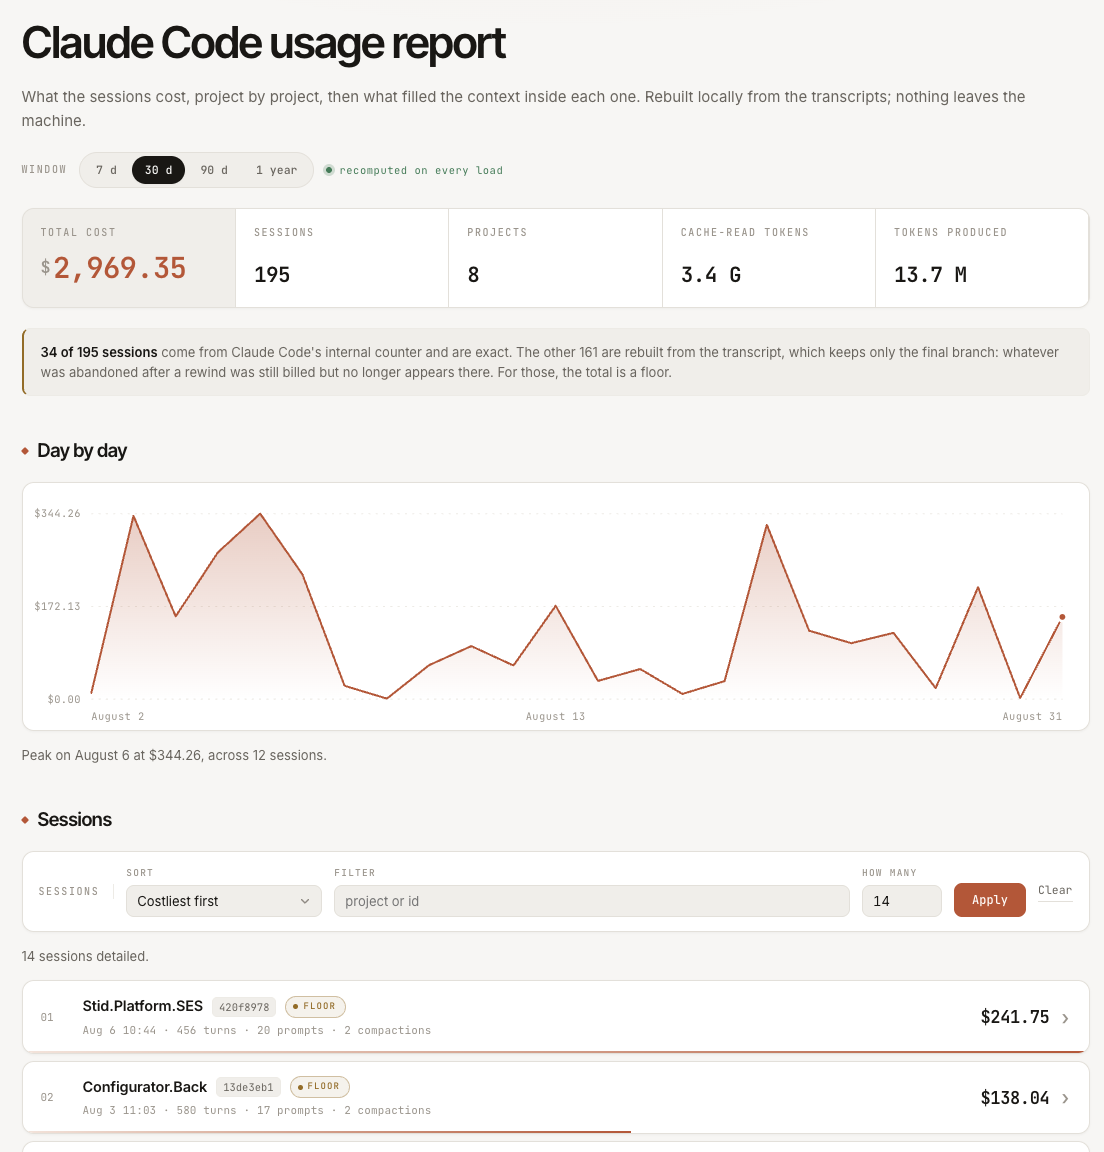
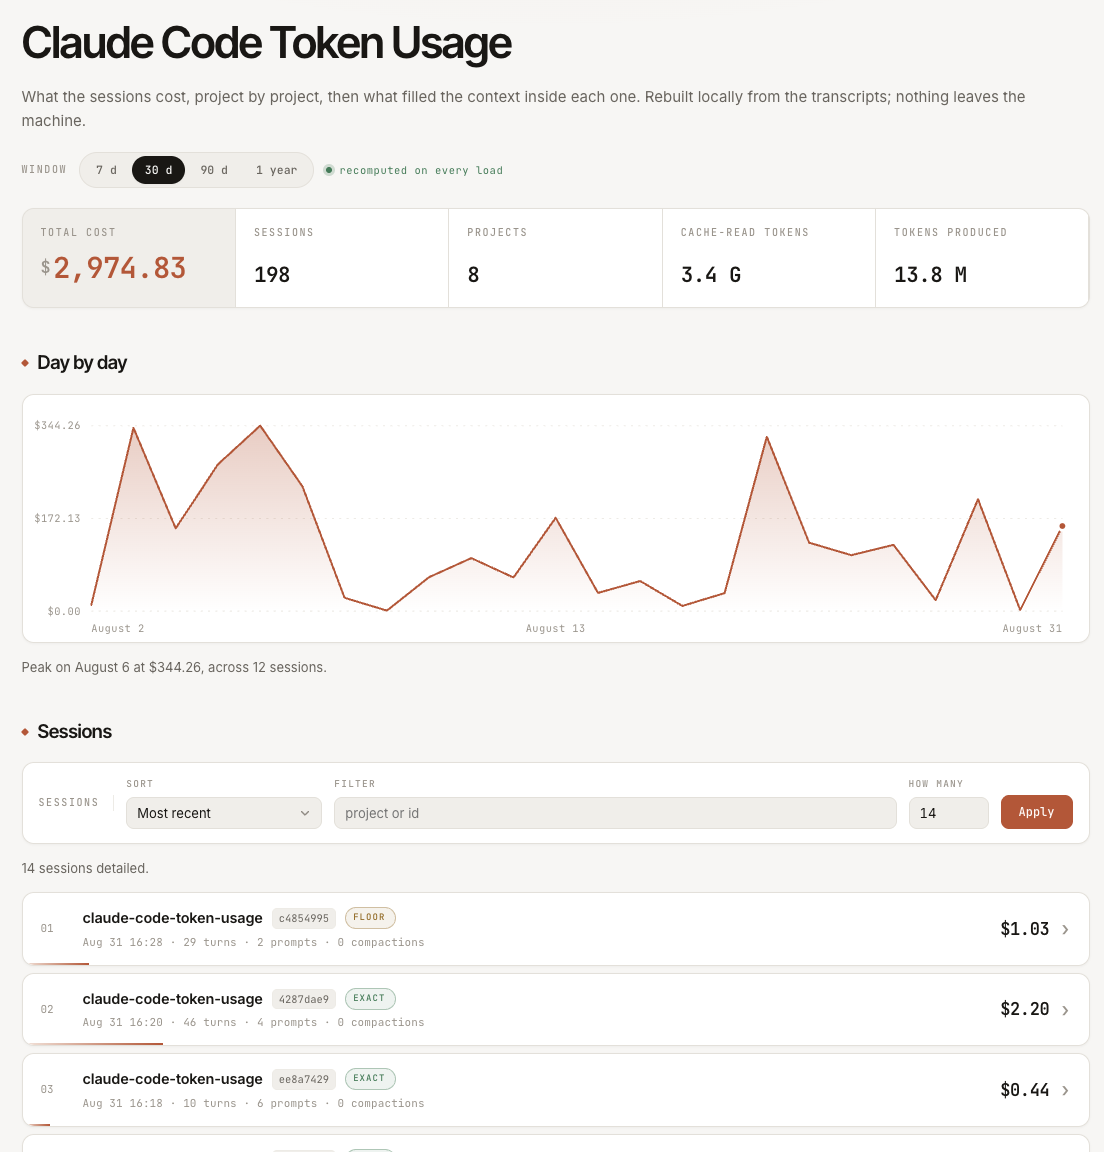
refactor: update HTML structure and improve tooltip functionality

diff --git a/cc-usage-template.html b/cc-usage-template.html
@@ -249,17 +249,6 @@
     vertical-align: .3em;
   }
 
-  .caveat {
-    font-size: 13px;
-    color: var(--muted);
-    background: var(--sunk);
-    border: 1px solid var(--hair);
-    border-left: 2px solid var(--brass);
-    border-radius: var(--r-sm);
-    padding: 13px 17px;
-  }
-  .caveat strong { color: var(--ink); font-weight: 600; }
-
   /* --- per-project bars ------------------------------------------------ */
   .bars {
     border: 1px solid var(--line);
@@ -501,11 +490,19 @@
     padding: 14px 18px;
     text-decoration: none;
     color: inherit;
-    overflow: hidden;
     box-shadow: var(--shadow-sm);
     transition: border-color .15s, transform .15s, box-shadow .15s;
   }
-  .row::after {
+  /* The share bar carries the rounded clipping itself, so the row can let a
+     chip tooltip escape its box. */
+  .row-fill {
+    position: absolute;
+    inset: 0;
+    border-radius: inherit;
+    overflow: hidden;
+    pointer-events: none;
+  }
+  .row-fill::after {
     content: "";
     position: absolute;
     left: 0;
@@ -518,7 +515,11 @@
     border-color: color-mix(in srgb, var(--accent) 55%, var(--line));
     transform: translateY(-1px);
     box-shadow: var(--shadow);
+    z-index: 4;
   }
+  /* Inside a clickable row the chip keeps the row's pointer: it is not a
+     separate target, only an explanation on hover. */
+  .row .chip.src { cursor: inherit; }
   .row:hover .row-cost { color: var(--accent); }
   .rank {
     font-family: var(--mono);
@@ -528,7 +529,14 @@
   }
   .row-main { min-width: 0; display: flex; flex-direction: column; gap: 4px; }
   .row-title { display: flex; align-items: center; gap: 9px; flex-wrap: wrap; }
-  .proj { font-weight: 600; font-size: 14.5px; letter-spacing: -.012em; }
+  /* The row no longer clips, so a long unbroken name has to wrap on its own. */
+  .proj {
+    font-weight: 600;
+    font-size: 14.5px;
+    letter-spacing: -.012em;
+    min-width: 0;
+    overflow-wrap: anywhere;
+  }
   .id {
     font-family: var(--mono);
     font-size: 10.5px;
@@ -593,6 +601,28 @@
     border-color: color-mix(in srgb, var(--brass) 38%, transparent);
     background: color-mix(in srgb, var(--brass) 9%, transparent);
   }
+
+  /* A chip can carry the .src tooltip too. It keeps its pill shape, loses the
+     dotted underline, and always drops downwards: in the hero and in the
+     coverage note alike, there is no room above it. */
+  .chip.src {
+    border-bottom-style: solid;
+    border-bottom-color: color-mix(in srgb, currentColor 38%, transparent);
+    vertical-align: baseline;
+  }
+  .chip.src::after {
+    bottom: auto;
+    top: calc(100% + 9px);
+    left: -10px;
+    transform: translateY(-4px);
+    z-index: 7;
+    text-transform: none;
+    letter-spacing: 0;
+    font-weight: 400;
+    color: var(--ink);
+  }
+  .chip.src:hover { border-bottom-color: currentColor; }
+  .chip.src:hover::after, .chip.src:focus-visible::after { transform: none; }
 
   /* --- session page ------------------------------------------------------ */
   .back {

diff --git a/cc-usage.py b/cc-usage.py
@@ -1200,6 +1200,31 @@ FACT_TIPS = {
 }
 
 
+EXACT_TIP = ("Cost read from the cost-state counter Claude Code writes into the "
+             "transcript itself. Authoritative: this is what the session was billed.")
+
+FLOOR_TIP = ("No cost-state counter in this transcript, so the cost is rebuilt from "
+             "its usage blocks. The transcript keeps only the final branch, so work "
+             "abandoned after a rewind was billed but no longer appears, and the "
+             "Haiku titling calls are never written to it. A minimum, not a "
+             "measurement \u2014 across the sessions carrying both, the transcript "
+             "accounts for 83 % of the counter.")
+
+
+def _chip(exact: bool, focusable: bool = True) -> str:
+    """The exact/floor chip, explaining on hover what the figure rests on.
+
+    Inside a clickable row the chip takes no tab stop of its own: the row
+    already is one, and a second stop on a purely explanatory pill would only
+    lengthen the keyboard path through the list.
+    """
+    tip = EXACT_TIP if exact else FLOOR_TIP
+    label = "exact" if exact else "floor"
+    focus = ' tabindex="0"' if focusable else ""
+    return (f'<span class="chip {label} src"{focus} '
+            f'data-tip="{html_escape(tip)}">{label}</span>')
+
+
 def _th(label: str, numeric: bool = False) -> str:
     """A column header that explains itself on hover, reusing the .src tooltip."""
     tip = COLUMN_TIPS.get(label)
@@ -1387,8 +1412,6 @@ def render_session_detail(session: dict, payload: dict, standalone: bool) -> lis
     """Renders one session: headline figures, per-tool breakdown, turns."""
     esc = html_escape
     out = []
-    chip = "exact" if session["exact"] else "floor"
-    chip_label = "exact" if session["exact"] else "floor"
     compact_plural = "s" if session["compactions"] != 1 else ""
     prompt_plural = "s" if session["prompts"] != 1 else ""
     turn_plural = "s" if session["turns"] != 1 else ""
@@ -1407,7 +1430,7 @@ def render_session_detail(session: dict, payload: dict, standalone: bool) -> lis
         out.append(f'<h1>{esc(session["project"])}</h1>')
         out.append(f'<div class="identity"><span class="hero-cost"><span>$</span>'
                    f'{_money(session["cost"])}</span>'
-                   f'<span class="chip {chip}">{chip_label}</span></div>')
+                   f'{_chip(session["exact"])}</div>')
         run = [f'<span>{esc(_span(session["start"], session["end"]))}</span>']
         elapsed = _elapsed(session["start"], session["end"])
         if elapsed:
@@ -1609,7 +1632,7 @@ def render_body(payload: dict) -> str:
     served = bool(payload.get("served"))
 
     out = ['<div class="wrap">', "<header>"]
-    out.append("<h1>Claude Code usage report</h1>")
+    out.append("<h1>Claude Code Token Usage</h1>")
     out.append('<p class="lede">What the sessions cost, project by project, then what '
                "filled the context inside each one. Rebuilt locally from the "
                "transcripts; nothing leaves the machine.</p>")
@@ -1641,18 +1664,6 @@ def render_body(payload: dict) -> str:
                    f"<b>{prefix}{value}</b></div>")
     out.append("</div>")
 
-    cov = payload["coverage"]
-    estimated = max(0, cov["total"] - cov["measured"])
-    if estimated == 0:
-        note = (f'<strong>{cov["measured"]} of {cov["total"]} sessions</strong> come from '
-                "Claude Code's internal counter. Figures are exact.")
-    else:
-        note = (f'<strong>{cov["measured"]} of {cov["total"]} sessions</strong> come from '
-                "Claude Code's internal counter and are exact. The other "
-                f"{estimated} are rebuilt from the transcript, which keeps only the "
-                "final branch: whatever was abandoned after a rewind was still "
-                "billed but no longer appears there. For those, the total is a floor.")
-    out.append(f'<div class="caveat">{note}</div>')
     out.append("</header>")
 
     daily = payload["daily"]
@@ -1759,8 +1770,6 @@ def render_body(payload: dict) -> str:
         out.append('<div class="rows">')
         peak_session = max(s["cost"] for s in payload["sessions"]) or 1
         for rank, session in enumerate(payload["sessions"], 1):
-            chip = "exact" if session["exact"] else "floor"
-            chip_label = "exact" if session["exact"] else "floor"
             compact_plural = "s" if session["compactions"] != 1 else ""
             prompt_plural = "s" if session["prompts"] != 1 else ""
             turn_plural = "s" if session["turns"] != 1 else ""
@@ -1774,11 +1783,12 @@ def render_body(payload: dict) -> str:
             out.append(
                 f'<a class="row" style="--share:{share:.1f}%" '
                 f'href="{esc(prefix + target)}">'
+                f'<span class="row-fill"></span>'
                 f'<span class="rank">{rank:02d}</span>' 
                 f'<span class="row-main"><span class="row-title">'
                 f'<span class="proj">{esc(session["project"])}</span>'
                 f'<span class="id">{esc(session["short"])}</span>'
-                f'<span class="chip {chip}">{chip_label}</span></span>'
+                f'{_chip(session["exact"], focusable=False)}</span>'
                 f'<span class="row-meta">{esc(meta)}</span></span>'
                 f'<span class="row-cost">${_money(session["cost"])}</span></a>')
         out.append("</div>")
